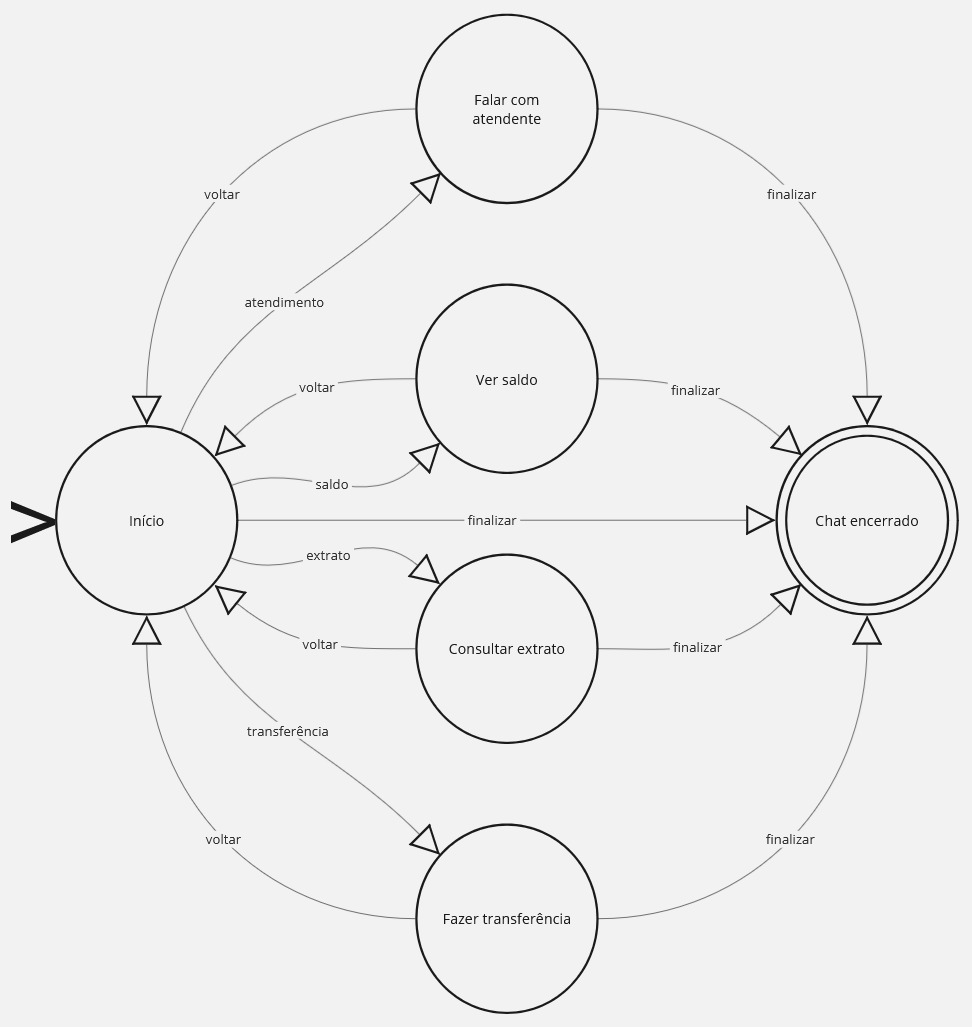
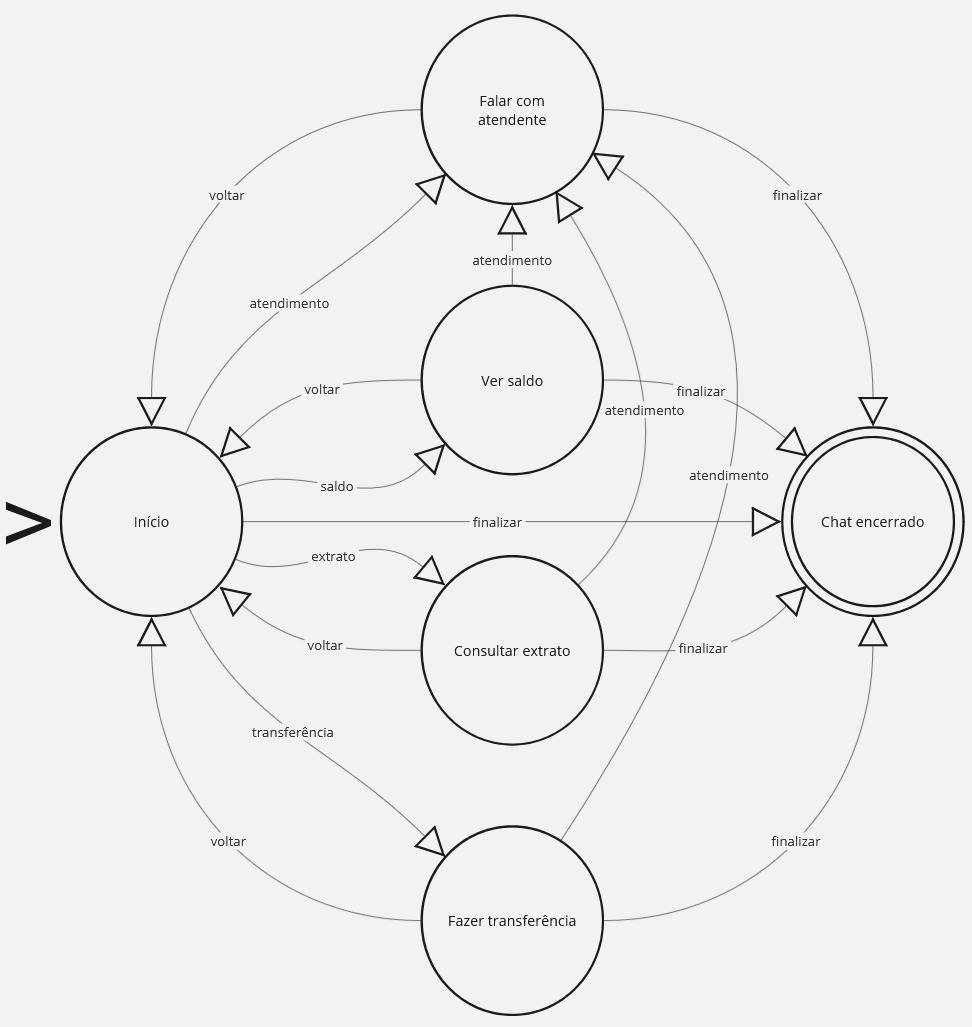
Versão final

diff --git a/src/Diagrama.js b/src/Diagrama.js
@@ -2,12 +2,12 @@ import React from 'react';
 import diagramaImg from './diagrama.jpg'; // Importe sua imagem
 
 const estados = [
-  { nome: 'Inicio', id: 'inicio', top: '382px', left: '61px'},
-  { nome: 'Ver saldo', id: 'saldo', top: '257px', left: '383px'},
-  { nome: 'Consultar extrato', id: 'extrato', top: '497px', left: '383px'},
-  { nome: 'Fazer transferência', id: 'transferencia', top: '738px', left: '383px'},
-  { nome: 'Falar com atendente', id: 'transferirParaHumano', top: '15px', left: '383px'},
-  { nome: 'Finalizar Chat', id: 'finalizado', top: '383px', left: '705px'},
+  { nome: 'Inicio', id: 'inicio', top: '382px', left: '65px'},
+  { nome: 'Ver saldo', id: 'saldo', top: '257px', left: '387px'},
+  { nome: 'Consultar extrato', id: 'extrato', top: '497px', left: '387px'},
+  { nome: 'Fazer transferência', id: 'transferencia', top: '738px', left: '387px'},
+  { nome: 'Falar com atendente', id: 'transferirParaHumano', top: '15px', left: '387px'},
+  { nome: 'Finalizar Chat', id: 'finalizado', top: '383px', left: '709px'},
 ];
 
 const Diagrama = ({ estadoAtual }) => {

diff --git a/public/index.html b/public/index.html
@@ -24,7 +24,7 @@
       work correctly both with client-side routing and a non-root public URL.
       Learn how to configure a non-root public URL by running `npm run build`.
     -->
-    <title>React App</title>
+    <title>ChatBot</title>
   </head>
   <body>
     <noscript>You need to enable JavaScript to run this app.</noscript>

diff --git a/src/index.js b/src/index.js
@@ -1,6 +1,6 @@
 import React from "react";
 import ReactDOM from "react-dom/client";
-import "./index.css"; // Isso deve estar aqui
+import "./index.css";
 import App from "./App";
 import reportWebVitals from "./reportWebVitals";
 
